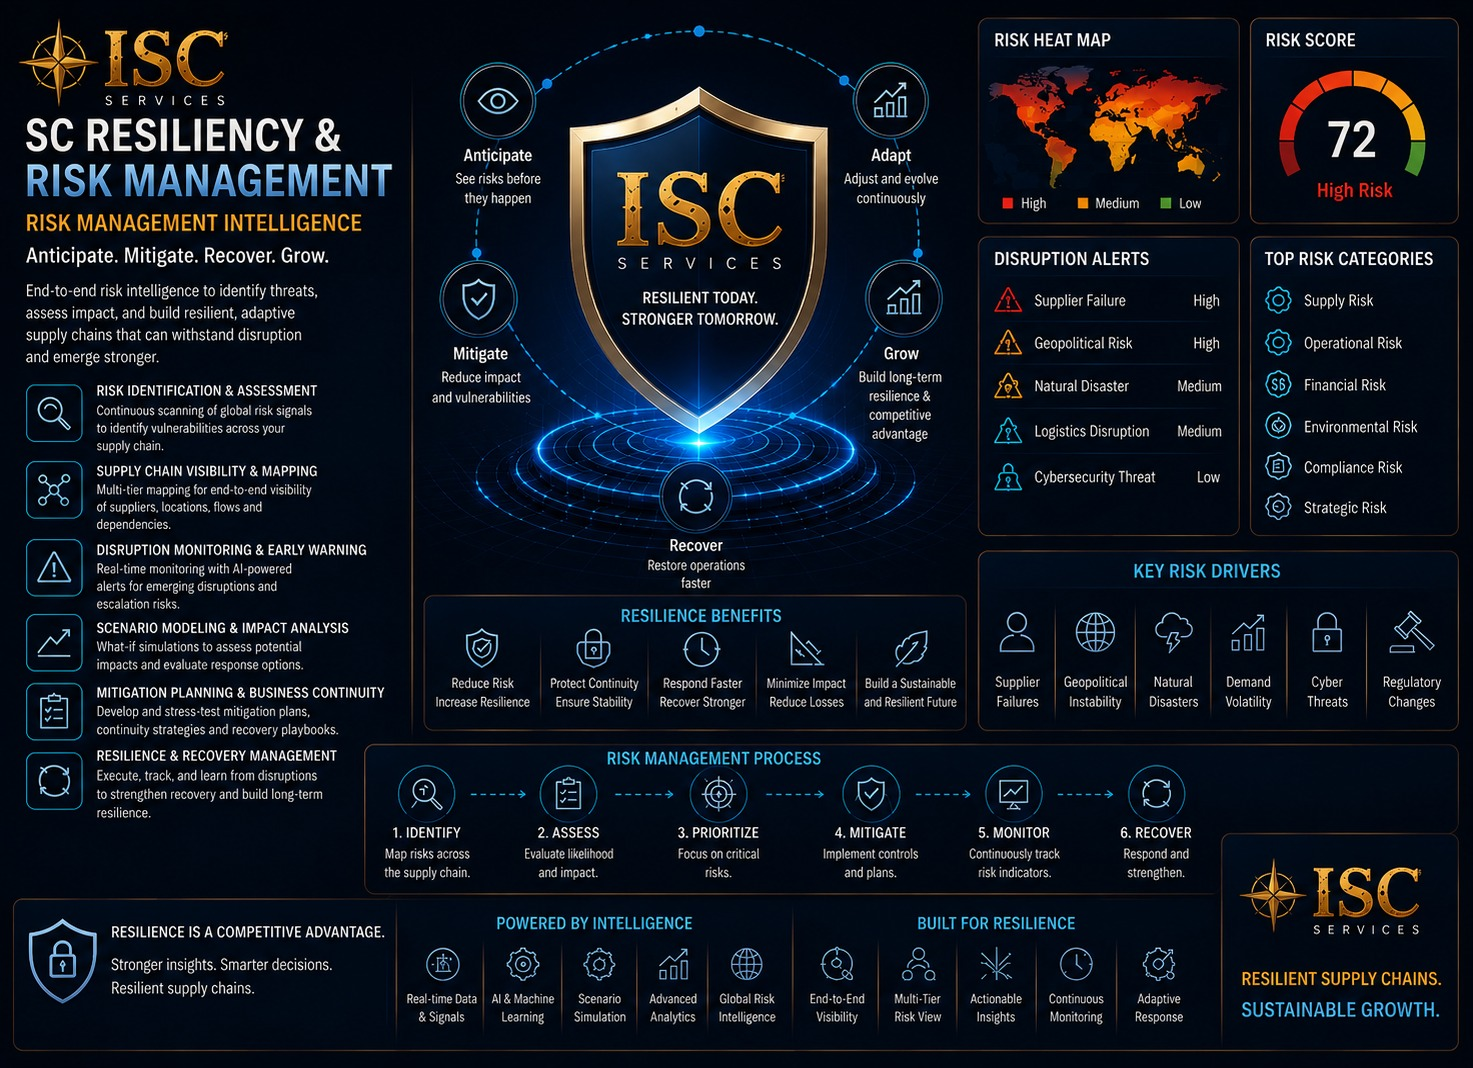
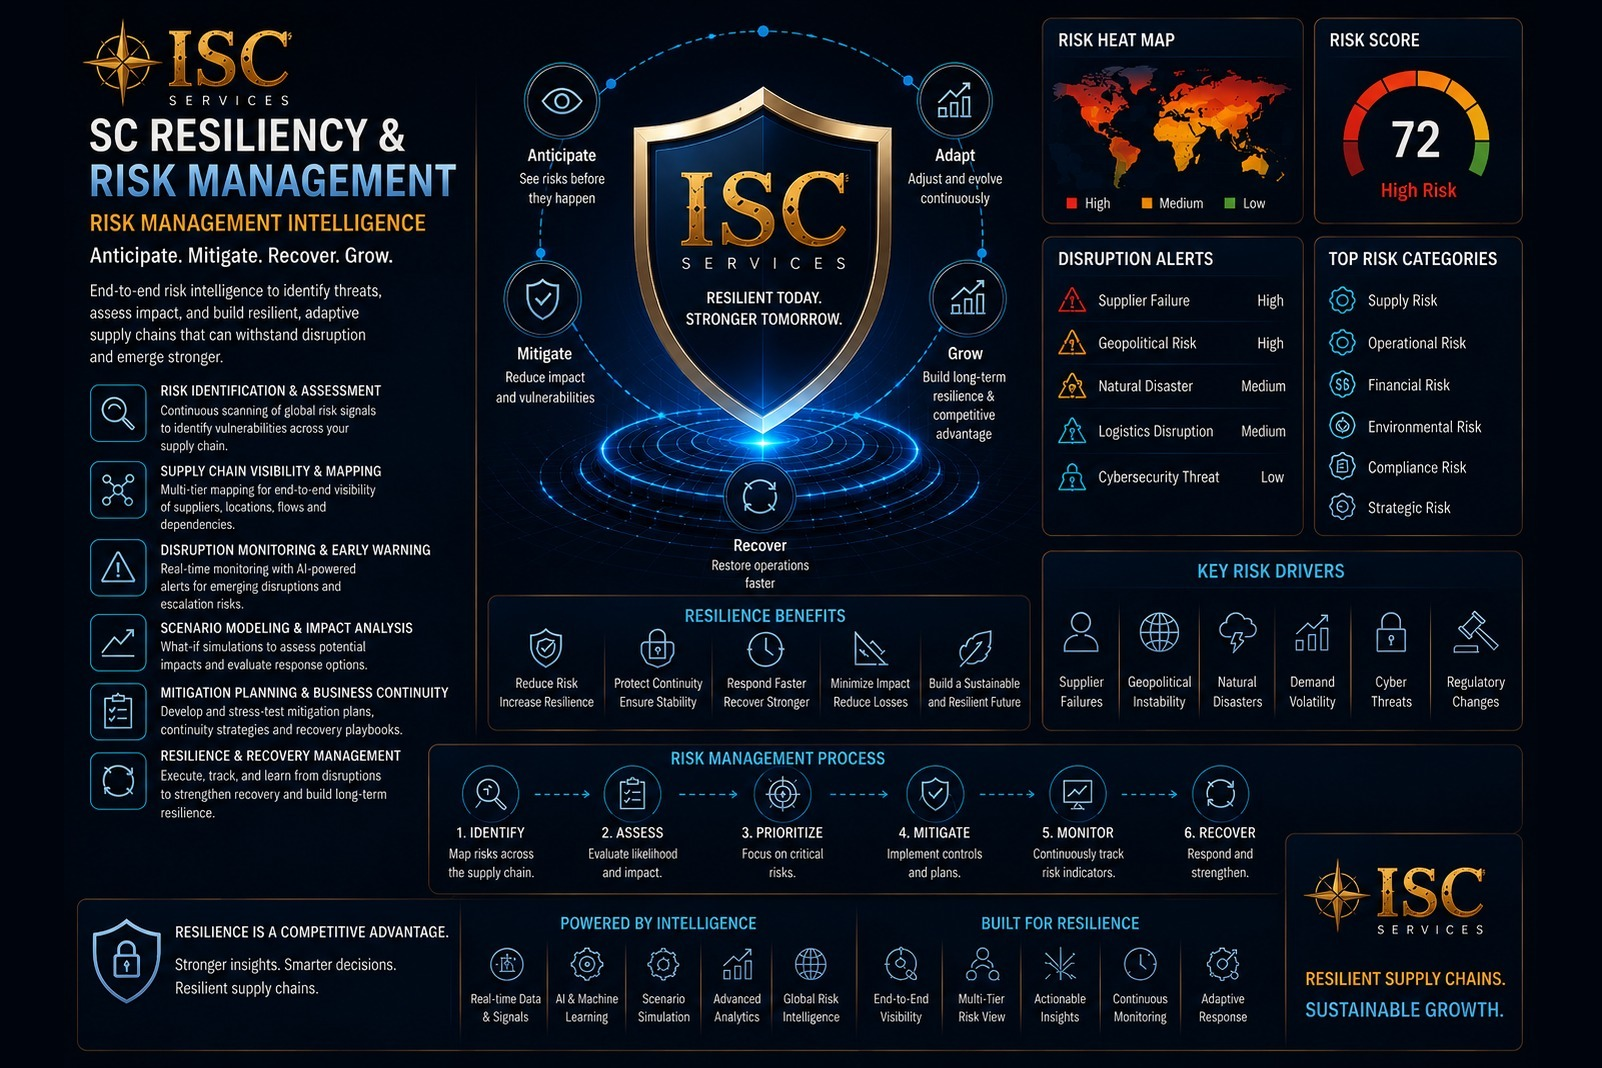
hero: normalize risk slide to 1.5 aspect ratio -- kill last pillarbox bars
Owner's screenshot showed thin empty navy edges on the 'SC Resiliency
& Risk' slide specifically -- the one slide that was 1473x1068 (1.379)
while the section box (and the other 7 slides) are 1536/1024 (1.5).
object-fit:contain was correctly avoiding cropping it, but that meant
pillarboxing since its shape didn't match the box.

Fix: canvas-extend the image itself by 64/65px on each side, filled
with a color sampled from the image's own near-black navy edges, so
it's now exactly 1602x1068 (1.5) -- identical ratio to the other 7
slides and to the section box. Bumped its cache-busting query param
(v1 -> v2). All 8 slides now render pixel-exact full-bleed with zero
crop and zero letterbox, matching what the other 7 already looked
like. tsc clean, build succeeds.

Changed region(s): [[0.0, 0.0309, 0.9993, 0.9579], [0.5309, 0.0309, 0.5621, 0.0618], [0.406, 0.0309, 0.4372, 0.0618]]

diff --git a/artifacts/i-supply-chain/src/pages/Home.tsx b/artifacts/i-supply-chain/src/pages/Home.tsx
@@ -210,7 +210,7 @@ const heroSlides = [
   { src: '/brand/hero-service-tco.jpg?v=1', alt: 'ISC Total Cost of Ownership', label: 'Total Cost of Ownership (TCO)', labelAr: 'التكلفة الإجمالية للملكية' },
   { src: '/brand/hero-service-clm.jpg?v=1', alt: 'ISC Contract Intelligence', label: 'Contract Intelligence (CLM)', labelAr: 'إدارة دورة حياة العقود' },
   { src: '/brand/hero-service-srm.jpg?v=1', alt: 'ISC Supplier Intelligence', label: 'Supplier Intelligence (SRM)', labelAr: 'إدارة علاقات الموردين' },
-  { src: '/brand/hero-service-risk.jpg?v=1', alt: 'ISC Supply Chain Resiliency & Risk', label: 'SC Resiliency & Risk', labelAr: 'مرونة سلسلة الإمداد وإدارة المخاطر' },
+  { src: '/brand/hero-service-risk.jpg?v=2', alt: 'ISC Supply Chain Resiliency & Risk', label: 'SC Resiliency & Risk', labelAr: 'مرونة سلسلة الإمداد وإدارة المخاطر' },
 ];
 
 // Shared slide-rotation state, lifted out so the image (in the full-bleed
